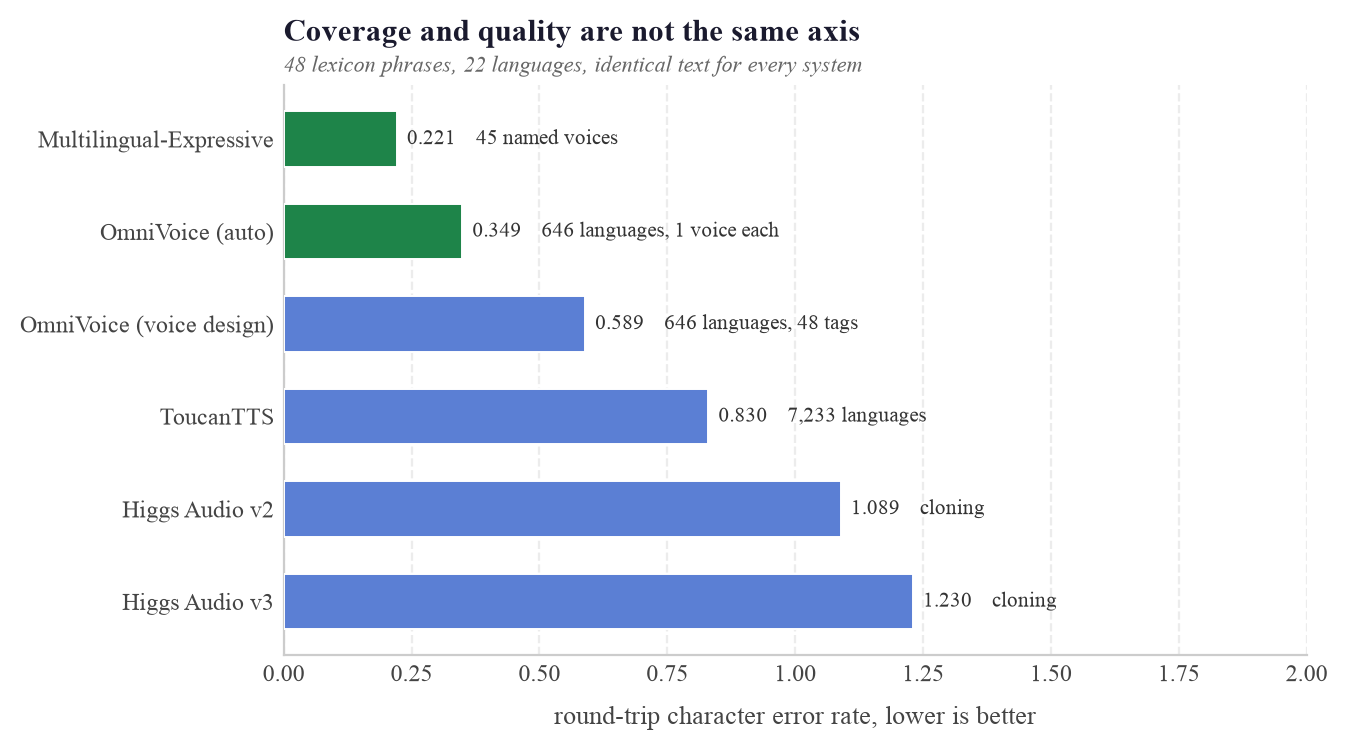
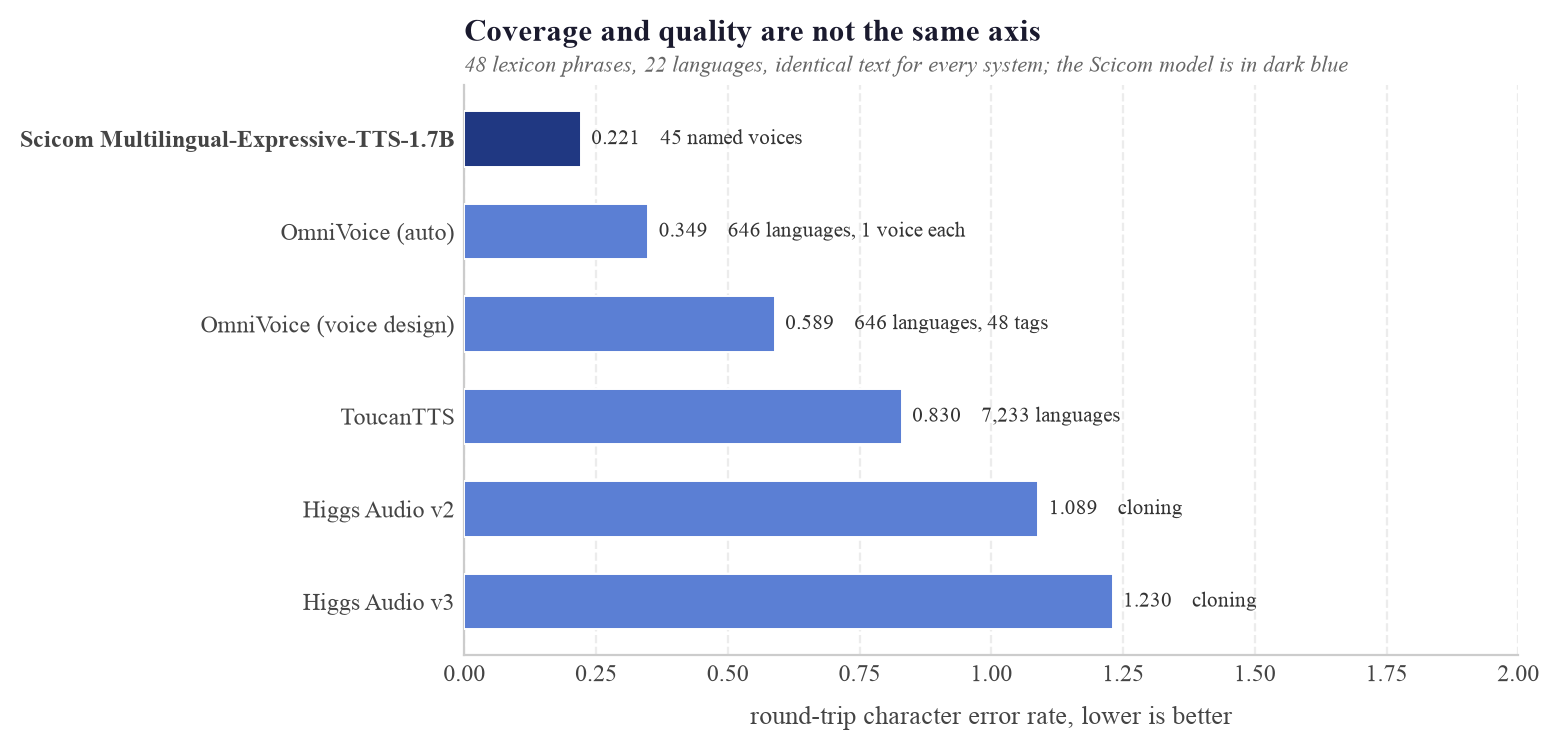
Conclusion, lexicon provenance, consistent model labels, and mark what is ours
Conclusion section before Limitations. It says the thing the paper is for: the defect is in the
weights, the pipelines that copy Whisper delete the evidence and keep the behaviour, negatives
alone teach suppression without discrimination, and the fix is to supply both halves.

The Lexicon section claimed "four public sources" and named none of them. It now has a table
with all four, their counts and their licences: the AGH DSP full tally and its Bag of
Hallucinations subset, sachaarbonel/whisper-hallucinations, and NVIDIA NeMo SDP's Granary
filter lists. The last row is the argument in miniature: those files exist to delete
hallucinated pseudo-labels from a corpus, and we use them to generate training data.

Table 2 now carries the same checkpoint labels as Table 1, on two lines rather than abbreviated
to mal-v2, so a reader never meets a name that is not defined.

Scicom's own TTS is marked as Scicom's in both generator figures and both tables, in a distinct
colour, so nobody has to work out whose model is whose when reading a comparison the authors
are in.

Also preprint/build.sh, because rebuilding from a stale aux kept producing one error and forty
undefined references that had nothing to do with the source. It always cleans first and prints
pages, errors, undefined, overfull and em-dash count in one line.

diff --git a/preprint/neurips_2023.tex b/preprint/neurips_2023.tex
@@ -144,8 +144,7 @@ closest existing thing to the fix this paper proposes.
 \caption{The checkpoints, and the short labels used in every table and figure below. The two
 Malay fine-tunes are built on \texttt{large-v2} and \texttt{turbo} respectively, and
 \texttt{turbo} differs from \texttt{large-v3} in having four decoder layers rather than
-thirty-two. Wide tables abbreviate the last two labels further, to \texttt{mal-v2} and
-\texttt{mal-turbo-v3}.}
+thirty-two.}
 \label{tab:models}
 \footnotesize
 \begin{tabular}{lllp{0.16\linewidth}}
@@ -170,7 +169,9 @@ second counts any output including a bare full stop.}
 \footnotesize
 \begin{tabular}{lrrrrrr}
 \toprule
-\textbf{arm} & \textbf{n} & \textbf{large-v2} & \textbf{large-v3} & \textbf{turbo} & \textbf{mal-v2} & \textbf{mal-turbo-v3} \\
+\textbf{arm} & \textbf{n} & \textbf{large-v2} & \textbf{large-v3} & \textbf{turbo}
+ & \shortstack{\textbf{malaysian}\\\textbf{-v2}}
+ & \shortstack{\textbf{malaysian}\\\textbf{-turbo-v3}} \\
 \midrule
 \texttt{silence} & 42 & 85.7\% & 61.9\% & 59.5\% & 35.7\% & \textbf{16.7\%} \\
 \texttt{music} & 600 & 98.7\% & 97.0\% & 96.7\% & 69.7\% & \textbf{31.0\%} \\
@@ -426,7 +427,9 @@ the central measurement of the paper and it is what makes a one-sided metric dan
 \footnotesize
 \begin{tabular}{lrrrrrr}
 \toprule
-\textbf{arm} & \textbf{n} & \textbf{large-v2} & \textbf{large-v3} & \textbf{turbo} & \textbf{mal-v2} & \textbf{mal-turbo-v3} \\
+\textbf{arm} & \textbf{n} & \textbf{large-v2} & \textbf{large-v3} & \textbf{turbo}
+ & \shortstack{\textbf{malaysian}\\\textbf{-v2}}
+ & \shortstack{\textbf{malaysian}\\\textbf{-turbo-v3}} \\
 \midrule
 \texttt{librispeech} WER & 2{,}620 & 4.5\% & \textbf{3.5\%} & \textbf{3.5\%} & \textbf{3.5\%} & 10.6\% \\
 \texttt{genuine} WER & 4{,}694 & 35.4\% & \textbf{31.8\%} & \textbf{31.8\%} & 42.3\% & 60.7\% \\
@@ -552,8 +555,32 @@ for another.
 
 Hallucinations repeat themselves. \texttt{thank you for watching}, \texttt{so}, the Russian
 \texttt{Prodolzhenie sleduet...} (``to be continued''), and the Malay
-\texttt{terima kasih kerana menonton} appear over and over on audio containing none of them. We merged four public sources with our own mining
-into 40,891 phrases across 100 languages.
+\texttt{terima kasih kerana menonton} appear over and over on audio containing none of them. We merged four public sources into 40,891
+phrases across 100 languages.
+
+\begin{table}[!htbp]
+\centering
+\caption{Where the lexicon comes from. All four are public and permissively licensed, and all
+four are vendored in the release so the merge is reproducible.}
+\label{tab:lexsources}
+\footnotesize
+\begin{tabular}{p{0.34\linewidth}p{0.26\linewidth}rl}
+\toprule
+\textbf{source} & \textbf{what it is} & \textbf{phrases} & \textbf{licence} \\
+\midrule
+AGH DSP full tally \citep{baranski2025nonspeech} & Whisper output over non-speech audio & 30{,}407 & MIT \\
+AGH DSP ``Bag of Hallucinations'' \citep{baranski2025nonspeech} & the curated subset of the above & 294 & MIT \\
+\texttt{whisper-hallucinations} \citep{arbonel2024hfhalluc} & community-collected, multilingual & 7{,}889 & MIT \\
+NVIDIA NeMo SDP, Granary \citep{koluguri2025granary} & the pipeline's own filter lists, 23 languages & 3{,}028 & Apache-2.0 \\
+\bottomrule
+\end{tabular}
+\end{table}
+
+The fourth row is worth dwelling on. Those files are the lists NVIDIA's pipeline uses to
+\emph{delete} hallucinated pseudo-labels from Granary, shipped alongside the
+\texttt{DetectWhisperHallucinationFeatures} processor that applies them. We use the same lists
+to \emph{generate} training data. The phrases a corpus builder throws away are exactly the
+phrases a model needs to be taught to handle.
 
 The lexicon is the bridge between the two halves of this work. Read one way it is a blocklist.
 Read the other way it is a list of sentences the model must still be able to transcribe when
@@ -592,11 +619,11 @@ than it looks.
 \caption{Text-to-speech candidates. Round-trip character error rate, lower is better.}
 \label{tab:tts}
 \footnotesize
-\begin{tabular}{lrrrllll}
+\begin{tabular}{p{0.32\linewidth}rrrll}
 \toprule
  & \textbf{mean CER} & \textbf{median} & \textbf{wins} & \textbf{languages} & \textbf{voices} \\
 \midrule
-Multilingual-Expressive-TTS-1.7B & \textbf{0.221} & \textbf{0.000} & \textbf{16} & untagged & 45 named \\
+\textbf{Scicom} Multilingual-Expressive-TTS-1.7B & \textbf{0.221} & \textbf{0.000} & \textbf{16} & untagged & 45 named \\
 OmniVoice (auto) & 0.349 & 0.018 & 2 & \textbf{646} & \textbf{1 per language} \\
 OmniVoice (voice design) & 0.589 & 0.062 & 3 & \textbf{646} & 48 tags \\
 ToucanTTS & 0.830 & 0.586 & 0 & \textbf{7{,}233} & sampled from a GAN \\
@@ -608,7 +635,10 @@ Higgs Audio v3 & 1.230 & 0.483 & 1 & 82/100 & cloning \\
 
 Coverage and quality are not the same axis. ToucanTTS covers 7,233 languages and wins nothing.
 OmniVoice covers 646 and is the only system whose coverage is enumerable, so it drives the
-hundred-language sweep, with Multilingual-Expressive handling Malay, English, Chinese and Tamil.
+hundred-language sweep, with Scicom's own Multilingual-Expressive-TTS-1.7B handling Malay,
+English, Chinese and Tamil. It is the only model in the comparison that we built, and it is
+marked as such in Table~\ref{tab:tts} and Figure~\ref{fig:tts} so the reader can discount it
+if they wish.
 
 \subsection{Voice diversity}
 
@@ -632,11 +662,11 @@ The obvious fix, reference cloning, is the wrong one.
 Lower cosine means better separated voices.}
 \label{tab:diversity}
 \footnotesize
-\begin{tabular}{llll}
+\begin{tabular}{p{0.30\linewidth}lll}
 \toprule
 \textbf{route} & \textbf{yield mk / gu / it} & \textbf{median CER} & \textbf{different-voice cosine} \\
 \midrule
-\textbf{Multilingual-Expressive, speaker name} & \textbf{86\% / 80\% / 79\%} & 0.07 / 0.17 / 0.00 & \textbf{0.65 / 0.64 / 0.58} \\
+\textbf{Scicom Multilingual-Expressive, speaker name} & \textbf{86\% / 80\% / 79\%} & 0.07 / 0.17 / 0.00 & \textbf{0.65 / 0.64 / 0.58} \\
 OmniVoice, reference cloning & 46\% / 68\% / 53\% & 0.32 / 0.25 / 0.26 & 0.68 / 0.72 / 0.69 \\
 auto mode, for reference & 89\% / 73\% / 83\% & 0.02 / 0.11 / 0.00 & 0.91 / 0.81 / 0.77 \\
 \bottomrule
@@ -912,6 +942,49 @@ a thousand steps at a Malay-weighted mix moves the model away from the rest. Thi
 honest cost of the method and it is the first thing we would attack next. Without this arm we
 would not have known: LibriSpeech word error rate is flat at 0.034 to 0.037 across almost every
 run in the table.
+
+\section{Conclusion}
+
+Whisper's habit of writing sentences over silence is in the weights, not in the decoding loop.
+That matters because the usual remedies live outside the weights. A voice activity detector, a
+no-speech threshold, a blocklist: all of them help, and all of them disappear the moment the
+model is served on a stack that does not implement Whisper's own transcription loop.
+
+It also matters because Whisper is copied. Distil-Whisper, Kotoba-Whisper and Granary are all
+built on its pseudo-labels, and Canary-1B-v2 and Parakeet-TDT-0.6B-v3 are built on Granary. The
+pipelines that produce them filter hallucinated transcripts out of the corpus, which is the
+right thing to do for corpus quality and the wrong thing to do for this problem: it deletes the
+evidence and keeps the behaviour. The student is fitted to the half of the teacher that was
+already correct.
+
+Adding non-speech audio so the model learns to stay quiet is already standard, and on its own
+it does not work. The checkpoint in our benchmark that is best on every non-speech arm,
+16.7\% on silence against 61.9\% for base \texttt{large-v3}, is also the one that recovers the
+fewest genuinely spoken phrases, deletes 58\% of repeated speech, and returns character error
+rate 1.26 on the typical FLEURS language while matching the base model on LibriSpeech. Our own
+sweep reproduces that failure from scratch in a thousand steps whenever the negatives are
+unaccompanied: the quietest run in the paper, 0.071 on real voice-free audio, recovers 29.2\%
+of spoken phrases and triples LibriSpeech word error rate. Negative-only supervision teaches
+suppression without teaching discrimination, and a model can always be made quiet by making it
+mute.
+
+The missing ingredient is cheap once you look for it. Hallucinations are a small, enumerable
+set of phrases, so we collected 40,891 of them in 100 languages, chose a text-to-speech system
+by measurement, and synthesised them as positives: the same text the negatives teach the model
+to suppress, this time genuinely spoken and labelled with its transcript. In twelve matched
+pairs of fine-tunes that differ by nothing else, those clips lower word emission on real
+voice-free audio in 10 pairs and raise phrase recovery in 11, and among the ten pairs that hold
+English accuracy it is 10 out of 10. The best checkpoint takes silence hallucination from
+61.9\% to 2.4\% and words over real voice-free audio from 99.9\% to 47.8\% while raising phrase
+recovery from 69.8\% to 82.7\%, for five thousandths of LibriSpeech word error rate. That is
+the top-left corner Figure~\ref{fig:tradeoff} shows to be empty.
+
+Two things we would not have known without measuring both halves on every run. Training loss
+ranks these models backwards, because a blank-heavy mix is cheap to fit and the mix that trains
+to the better loss is the worse model. And every fine-tune we produced is worse than the base
+model on FLEURS while LibriSpeech stays flat at 0.034 to 0.037, so an English-only accuracy
+guard would have reported no cost at all. The benchmark, the lexicon, the synthetic corpus and
+the wild audio are released so the next attempt can be scored the same way.
 
 \section{Limitations}
 

diff --git a/preprint/plot_figs.py b/preprint/plot_figs.py
@@ -40,6 +40,7 @@ MODELS = [
     ("Malaysian-whisper-large-v3-turbo-v3", "malaysian-turbo-v3", "#203882", "o"),
 ]
 GRID = dict(color="#e0e0e0", linewidth=0.8, linestyle="--", alpha=0.6)
+OURS = "#203882"          # Scicom's own models, so a reader can tell whose is whose
 INK = "#333333"
 TICK = "#444444"
 DPI = 200
@@ -335,16 +336,18 @@ def fig_wild_blank():
 
 # 10. picking a generator
 def fig_tts():
-    rows = [("Multilingual-Expressive", 0.221, "45 named voices"),
-            ("OmniVoice (auto)", 0.349, "646 languages, 1 voice each"),
-            ("OmniVoice (voice design)", 0.589, "646 languages, 48 tags"),
-            ("ToucanTTS", 0.830, "7,233 languages"),
-            ("Higgs Audio v2", 1.089, "cloning"),
-            ("Higgs Audio v3", 1.230, "cloning")]
+    # (label, mean CER, note, ours). Scicom's own model is marked and coloured differently,
+    # because a reader comparing candidates needs to know which one the authors made.
+    rows = [("Scicom Multilingual-Expressive-TTS-1.7B", 0.221, "45 named voices", True),
+            ("OmniVoice (auto)", 0.349, "646 languages, 1 voice each", False),
+            ("OmniVoice (voice design)", 0.589, "646 languages, 48 tags", False),
+            ("ToucanTTS", 0.830, "7,233 languages", False),
+            ("Higgs Audio v2", 1.089, "cloning", False),
+            ("Higgs Audio v3", 1.230, "cloning", False)]
     rows = rows[::-1]
-    fig, ax = plt.subplots(figsize=(6.6, 3.7), dpi=DPI)
+    fig, ax = plt.subplots(figsize=(6.8, 3.7), dpi=DPI)
     y = np.arange(len(rows))
-    colors = ["#1e8449" if r[1] < 0.4 else "#5b7fd4" for r in rows]
+    colors = [OURS if r[3] else "#5b7fd4" for r in rows]
     ax.barh(y, [r[1] for r in rows], height=0.6, color=colors, edgecolor="white",
             linewidth=0.7, zorder=3)
     for yy, r in zip(y, rows):
@@ -352,10 +355,15 @@ def fig_tts():
                 color=INK)
     ax.set_yticks(y)
     ax.set_yticklabels([r[0] for r in rows], fontsize=8.5, color=INK)
+    for tick, r in zip(ax.get_yticklabels(), rows):
+        if r[3]:
+            tick.set_color(OURS)
+            tick.set_fontweight("bold")
     ax.set_xlim(0, 2.0)
     frame(ax, xlab="round-trip character error rate, lower is better", axis="x",
           title="Coverage and quality are not the same axis",
-          sub="48 lexicon phrases, 22 languages, identical text for every system")
+          sub="48 lexicon phrases, 22 languages, identical text for every system; "
+              "the Scicom model is in dark blue")
     save(fig, "fig_tts.png")
 
 
@@ -395,16 +403,21 @@ def fig_vc():
 
     fig, ax = plt.subplots(figsize=(6.6, 4.4), dpi=DPI)
     for i, (name, d, gap, dur) in enumerate(pts):
-        color = "#922b21" if dur > 1.5 else ("#1e8449" if d < 0.15 else "#5b7fd4")
+        ours = name.startswith("scicom")
+        color = OURS if ours else ("#922b21" if dur > 1.5 else
+                                   ("#1e8449" if d < 0.15 else "#5b7fd4"))
         ax.scatter([d], [gap], s=80 + 200 * max(dur - 1, 0), c=color, edgecolors="white",
                    linewidths=1.2, zorder=5)
         # Three systems land within two calibrated points of each other, so alternating above
         # and below is not enough; those get pushed sideways by hand.
         dx, dy, ha = OFFSETS.get(name, (0, 13, "center"))
-        ax.annotate(name, (d, gap), textcoords="offset points", xytext=(dx, dy), ha=ha,
-                    fontsize=7.2, color=INK, zorder=6)
+        ax.annotate("Scicom " + name if ours else name, (d, gap),
+                    textcoords="offset points", xytext=(dx, dy), ha=ha, fontsize=7.2,
+                    color=OURS if ours else INK,
+                    fontweight="bold" if ours else "normal", zorder=6)
     ax.axvline(0, color="#1a1a2e", linewidth=0.9, linestyle=":", alpha=0.5)
-    ax.text(0.015, 0.975, "marker size is output length relative to the source; red runs long",
+    ax.text(0.015, 0.975, "marker size is output length relative to the source; "
+            "dark blue is Scicom's own model, red runs long",
             transform=ax.transAxes, fontsize=7.4, color="#666666", style="italic", va="top")
     ax.set_ylim(-14, 112)
     ax.set_xlim(-0.62, 1.62)
